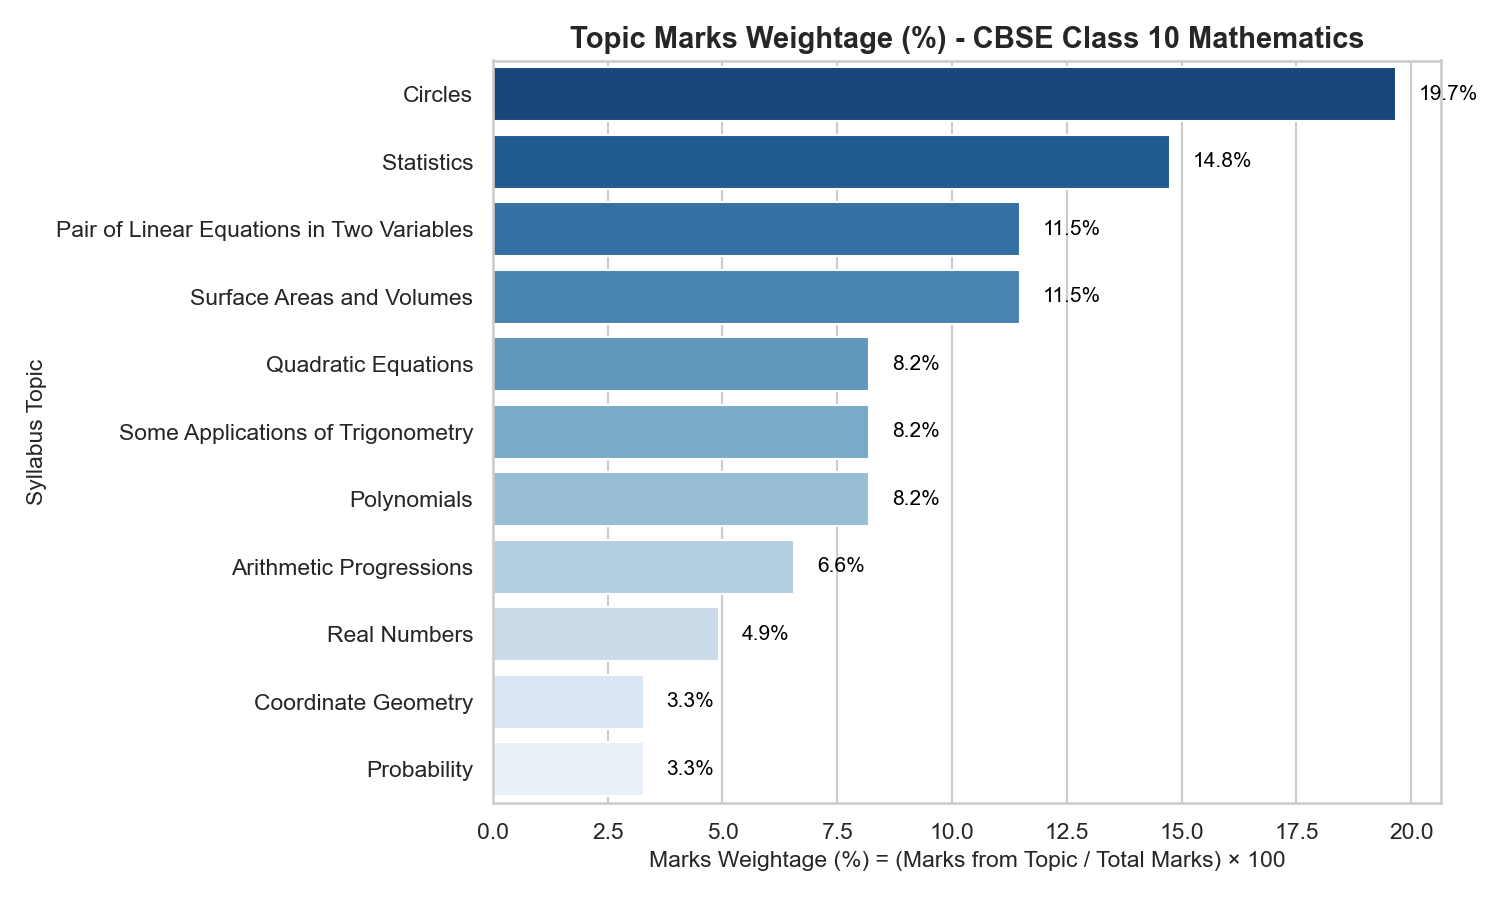
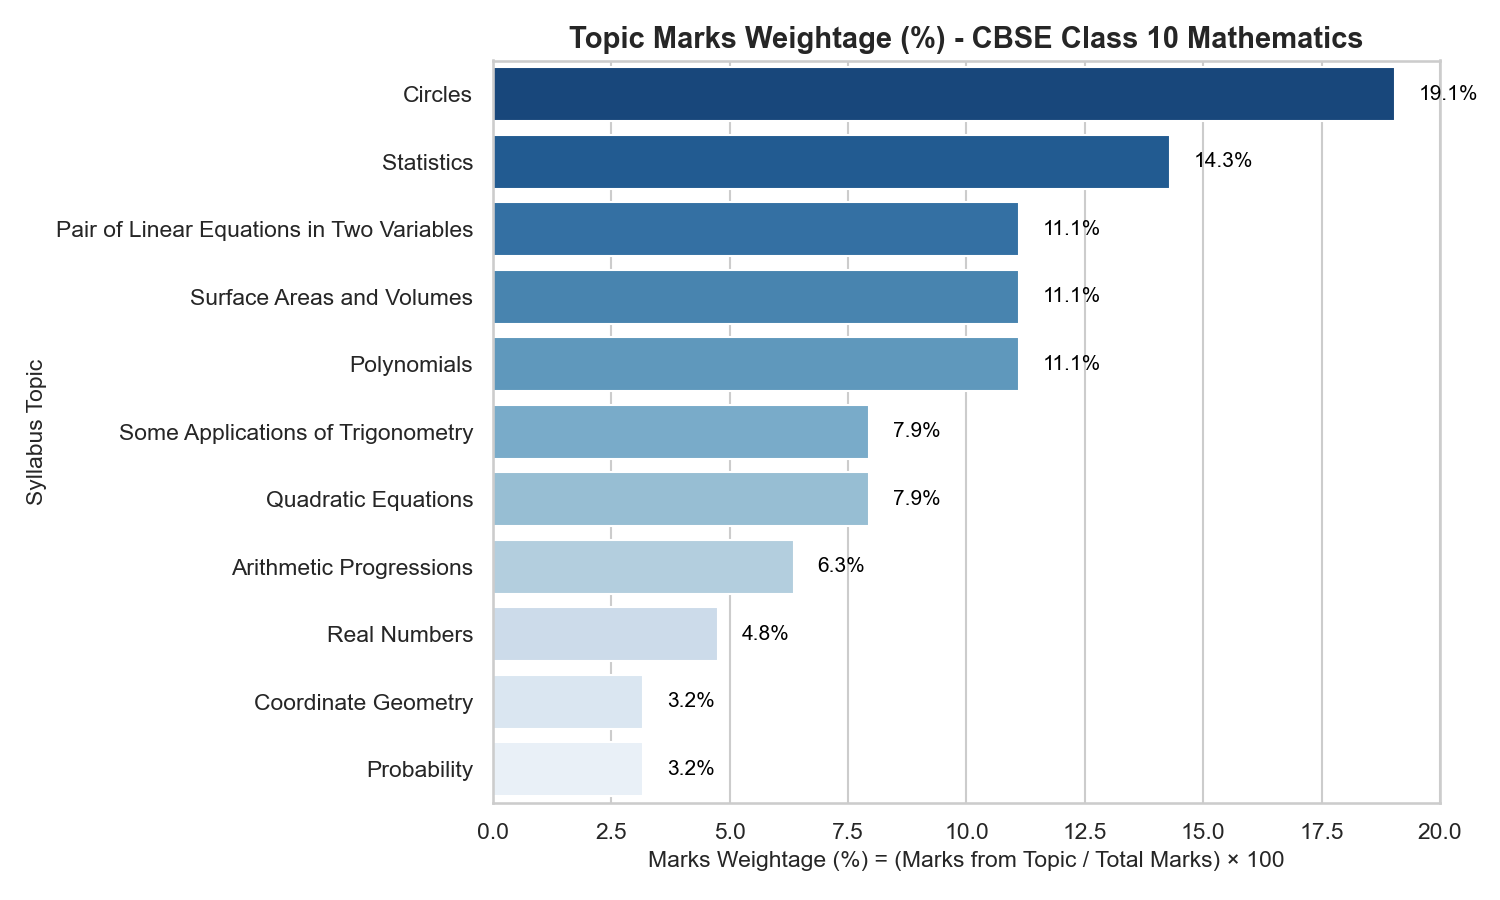
feat: add requirements.txt, CSV/JSON export actions, and in-tab voice summary

diff --git a/app.py b/app.py
@@ -446,6 +446,14 @@ with tab2:
             use_container_width=True,
             height=450
         )
+        csv_data = df_display.to_csv(index=False).encode('utf-8')
+        st.download_button(
+            label="📥 Export Extracted Questions (CSV)",
+            data=csv_data,
+            file_name="cbse_extracted_questions.csv",
+            mime="text/csv",
+            use_container_width=True
+        )
 
 # TAB 3: Topic Weightage Analytics
 with tab3:
@@ -562,8 +570,30 @@ with tab4:
                     """, unsafe_allow_html=True)
                     for item in w_data.get("target_topics", []):
                         badge_star = "⭐ " if item.get("is_weak_topic") else ""
-                        st.markdown(f"- **{badge_star}{item['topic']}**: {item['hours']}h")
                     st.markdown("</div>", unsafe_allow_html=True)
+
+        st.markdown("<br>", unsafe_allow_html=True)
+        col_act1, col_act2, col_act3 = st.columns(3)
+        with col_act1:
+            plan_csv = df_plan.to_csv(index=False).encode('utf-8')
+            st.download_button("📥 Download Plan (CSV)", data=plan_csv, file_name="weekly_study_plan.csv", mime="text/csv", use_container_width=True)
+        with col_act2:
+            plan_json = json.dumps(plan, indent=2).encode('utf-8')
+            st.download_button("📥 Download Plan (JSON)", data=plan_json, file_name="weekly_study_plan.json", mime="application/json", use_container_width=True)
+        with col_act3:
+            if st.button("🎙 Play Voice Summary in Tab", use_container_width=True):
+                with st.spinner("Generating speech via Sarvam Bulbul..."):
+                    summary_text = (
+                        f"नमस्ते! आपकी परीक्षा के लिए {weeks_input} सप्ताह का अध्ययन प्लान तैयार है। "
+                        f"कुल {weekly_hours_input * weeks_input} घंटे पढ़ाई होगी जिसमें कमजोर विषयों पर 35 प्रतिशत अतिरिक्त ध्यान दिया गया है।"
+                        if lang_code == "hi-IN" else
+                        f"Hello! Your {weeks_input}-week study plan is ready with {weekly_hours_input * weeks_input} total hours. "
+                        f"Weak topics have been prioritized with a 35 percent boost."
+                    )
+                    v_res = tools.speak(summary_text, lang_code)
+                    if v_res and os.path.exists(v_res):
+                        st.audio(v_res)
+                        st.success("Spoken summary generated!")
 
 # TAB 5: Milestone 8 Evaluation Benchmark
 with tab5:
